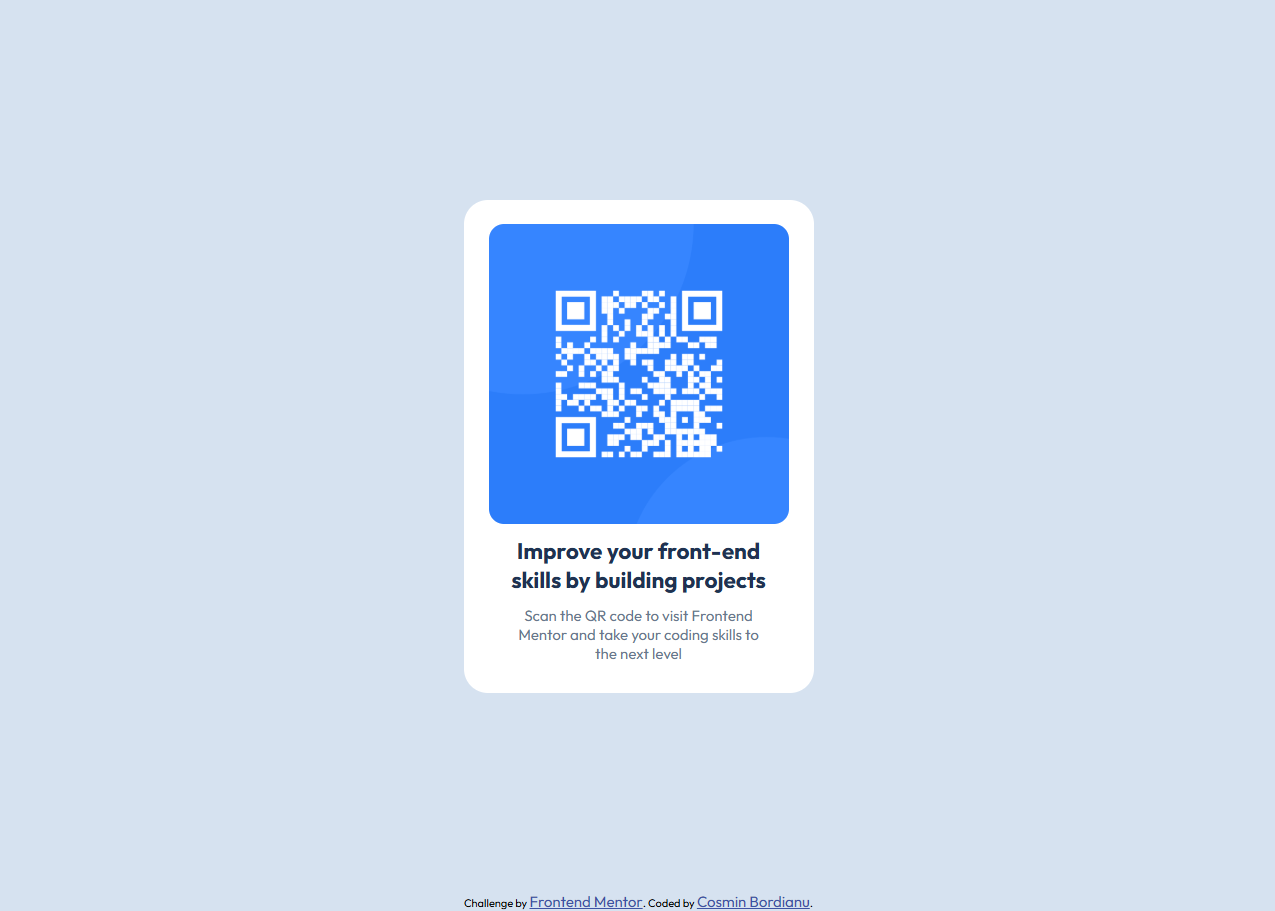
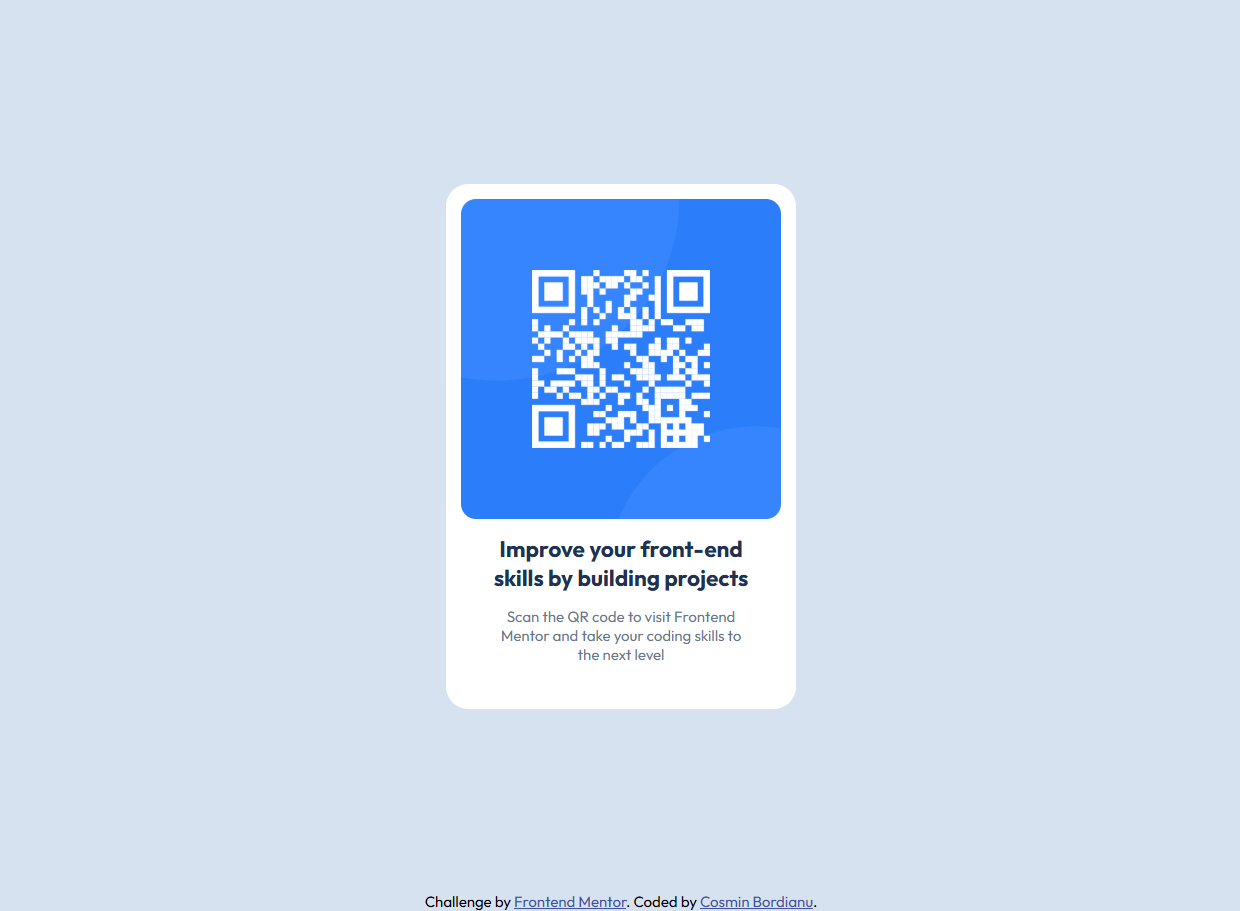
Complete solution using CSS FlexBox

Changed region(s): [[0.3371, 0.1844, 0.6435, 0.7991], [0.429, 0.2766, 0.5823, 0.5225], [0.3371, 0.9835, 0.6742, 1.0]]

diff --git a/style.css b/style.css
@@ -12,18 +12,20 @@
 *::after,
 *::before {
   box-sizing: border-box;
+}
+
+html {
   font-size: 15px;
 }
 
 body {
   margin: 0;
   padding: 0;
-  height: 100vh;
+  min-height: 100vh;
   font-family: var(--font-primary);
   background-color: var(--color-background);
   display: flex;
   flex-direction: column;
-  justify-content: space-between; /* Pushes items to top and bottom */
   align-items: center;
 }
 
@@ -34,9 +36,9 @@ body {
 }
 
 .qr-card img {
-  width: 20rem;
-  border-radius: 1rem;
-  margin-bottom: 0.4rem;
+  width: 100%;
+  border-radius: 2rem;
+  padding: 1rem;
 }
 
 .qr-card {
@@ -45,15 +47,14 @@ body {
   flex-direction: column;
   align-items: center;
   width: 350px;
-  border-radius: 1.6rem;
-  padding: 1.6rem 0;
+  border-radius: 1.5rem;
 }
 
 .qr-card h2,
 .qr-card p {
   text-align: center;
-  margin: 0.4rem 0;
-  padding: 0 2.9rem;
+  padding: 0 3rem;
+  margin: 0 0 1rem 0;
 }
 
 .qr-card h2 {
@@ -63,11 +64,17 @@ body {
 
 .qr-card p {
   color: var(--color-card-paragraph);
+  margin-bottom: 3rem;
 }
 
 .attribution {
-  font-size: 11px;
+  font-size: 1rem;
 }
 .attribution a {
   color: hsl(228, 45%, 44%);
+  transition: color 0.3s ease;
+}
+
+.attribution a:is(:hover, :focus-within) {
+  color: hsl(0, 92%, 20%);
 }

diff --git a/index.html b/index.html
@@ -34,9 +34,7 @@
       <a href="https://www.frontendmentor.io?ref=challenge" target="_blank"
         >Frontend Mentor</a
       >. Coded by
-      <a href="https://github.com/cosminbordianu/QR-code-component"
-        >Cosmin Bordianu</a
-      >.
+      <a href="https://github.com/cosminbordianu">Cosmin Bordianu</a>.
     </div>
   </body>
 </html>

diff --git a/README.md b/README.md
@@ -20,7 +20,7 @@ This is a solution to the [QR code component challenge on Frontend Mentor](https
 
 ### Links
 
-- Solution URL: (https://your-solution-url.com)
+- Solution URL: (https://cosminbordianu.github.io/QR-code-component/)
 
 ## My process
 
